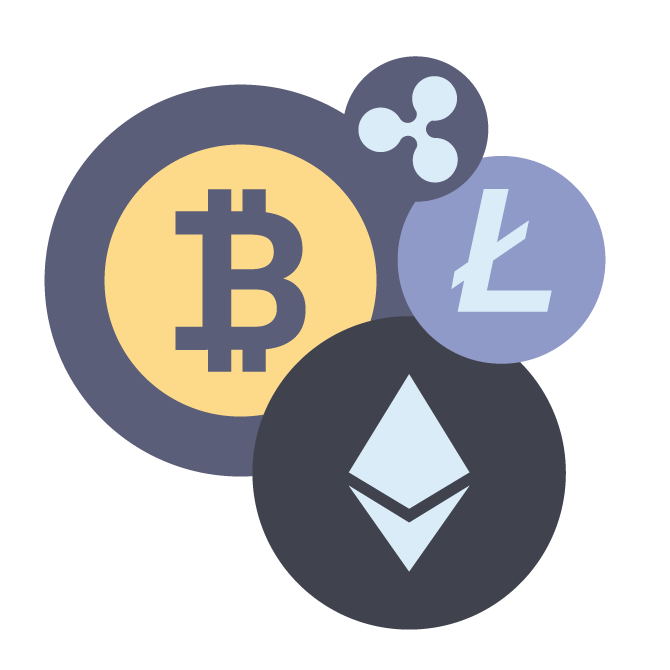
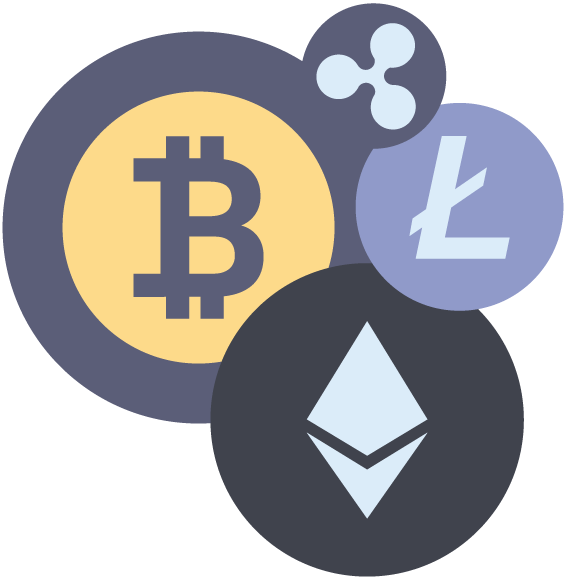
Crop png, Added Home and TextImage style

diff --git a/frontend/src/Pages/Home.js b/frontend/src/Pages/Home.js
@@ -1,5 +1,6 @@
 import React from 'react'
 import TextImage from '../Components/TextImage'
+import "../CSS/Home.css"
 import img1 from '../Assets/pngegg.png'
 import img2 from '../Assets/securuty.png'
 import img3 from '../Assets/homeFoto.png'

diff --git a/frontend/src/Components/NavBar.js b/frontend/src/Components/NavBar.js
@@ -1,6 +1,6 @@
 import React, { useState } from "react";
 import { Link } from "react-router-dom";
-
+import "../CSS/NavBar.css"
 import image from "../Assets/navbardos.png";
 
 const NavBar = () => {

diff --git a/frontend/src/Components/TextImage.js b/frontend/src/Components/TextImage.js
@@ -1,4 +1,5 @@
 import React from "react"
+import "../CSS/TextImage.css"
 
 
 export default function TextImage(props) {
